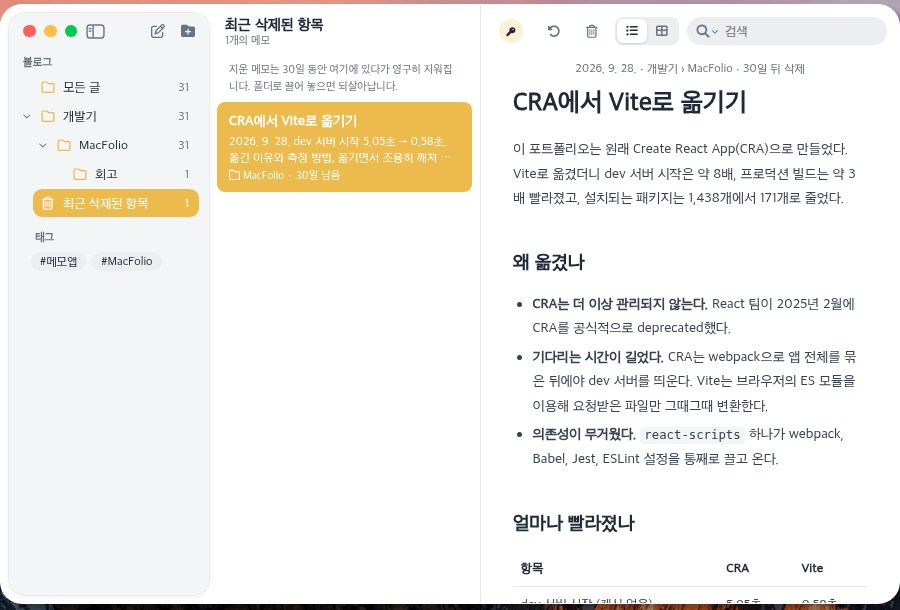
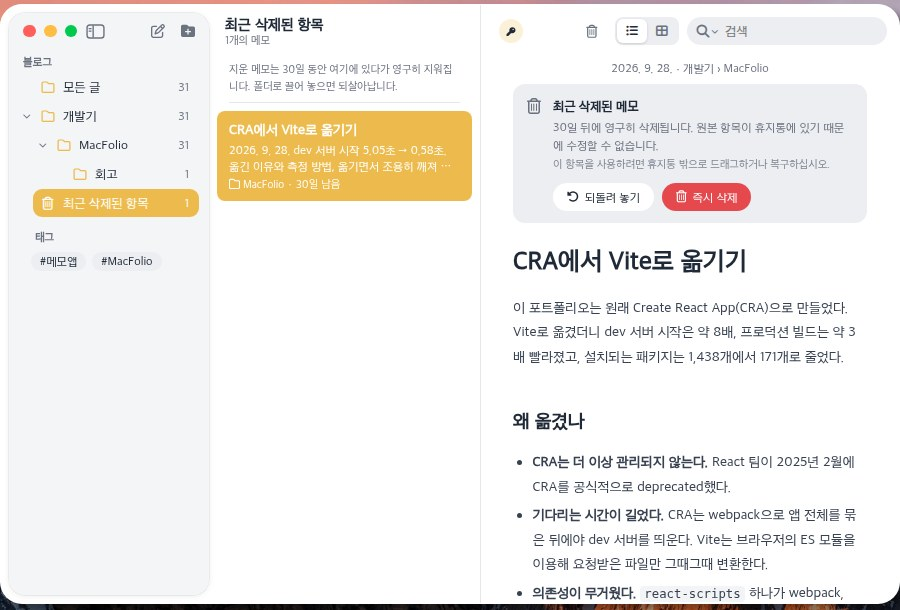
docs(memo): 최근 삭제된 항목 글에 안내 상자·휴지통 비우기 적기

diff --git a/apps/react/src/apps/memo/content/memo-recently-deleted.md b/apps/react/src/apps/memo/content/memo-recently-deleted.md
@@ -7,7 +7,7 @@ summary: 메모를 지우면 바로 사라지고 되돌릴 길이 없었다. mac
 
 메모를 지울 때마다 "지울까요?"라고 물었다. 묻는 이유는 되돌릴 수 없어서였다. macOS 메모는 묻지 않는다. 지운 메모는 '최근 삭제된 항목'으로 가서 30일 동안 남고, 그 안에서 되살리거나 영구히 지운다. 같은 방식으로 바꿨다.
 
-![최근 삭제된 항목](./images/memo-trash.jpg '폴더 목록 맨 아래의 최근 삭제된 항목. 줄마다 남은 날, 도구 막대에 되살리기')
+![최근 삭제된 항목](./images/memo-trash.jpg '폴더 목록 맨 아래의 최근 삭제된 항목. 본문 위 안내 상자에 되돌려 놓기·즉시 삭제')
 
 ## 지운 때
 
@@ -47,13 +47,31 @@ ALTER TABLE "Post" ADD CONSTRAINT "Post_deleted_at" CHECK ("deletedAt" IS NULL O
 
 ## 화면
 
-- 지우기는 묻지 않는다. 영구 삭제만 되돌릴 수 없어서 묻는다
-- 최근 삭제된 항목은 지운 글이 있을 때만 폴더 목록 맨 아래에 보인다. 날짜로 묶지 않고 최근에 지운 순서로 늘어놓으니 정렬 단추는 없다. 목록 위에 "30일 동안 여기에 있다가 영구히 지워진다, 폴더로 끌어 놓으면 되살아난다"는 안내를 한 번 적고, 줄마다 "N일 남음"을 단다
-- 지운 글은 관리자에게도 평소의 읽기 화면으로 보인다. 날짜 줄 끝에 "N일 뒤 삭제"만 붙고, 되살리기와 영구 삭제(휴지통)는 도구 막대에 있다. 우클릭·••• 메뉴에도 같은 두 가지가 있다
+- 지우기는 묻지 않는다. 즉시 삭제만 되돌릴 수 없어서 묻는다
+- 최근 삭제된 항목은 지운 글이 있을 때만 폴더 목록 맨 아래에 보인다. 날짜로 묶지 않고 최근에 지운 순서로 늘어놓으니 정렬 단추는 없다. 목록 위에 "30일 동안 여기에 있다가 영구히 지워진다, 폴더로 끌어 놓으면 되살아난다"는 안내를 한 번 적고 구분선을 긋는다. 줄마다 "N일 남음"을 단다
+- 지운 글은 관리자에게도 읽기 화면으로 보인다. 본문 위 안내 상자에 남은 날과 고칠 수 없는 까닭, 쓰는 방법을 적고, 그 아래 한 줄에 [되돌려 놓기]·[즉시 삭제]를 둔다. 도구 막대의 휴지통도 즉시 삭제다. 우클릭·••• 메뉴에도 같은 두 가지가 있다
+- 최근 삭제된 항목의 ••• 메뉴(우클릭도 같다)에 '휴지통 비우기'가 있다. 남은 메모를 모두 즉시 삭제한다
+- 되돌려 놓으면 '모든 글'로 돌아가 그 글을 연다. 마지막 하나를 즉시 삭제하면 최근 삭제된 항목이 사라지므로 역시 '모든 글'로 간다
 
-처음에는 본문 위에 회색 안내 상자("최근 삭제된 메모입니다… [되살리기]")를 두었다. 눈에는 잘 띄었지만 글을 읽을 때마다 상자가 먼저 보여서 시끄러웠다. macOS 메모처럼 본문은 그대로 두고, 할 수 있는 일은 도구 막대로, 남은 날은 날짜 줄로 옮겼다.
+안내 상자의 문구는 Finder의 휴지통에서 파일을 열 때 나오는 안내를 따랐다.
 
-- 되살리면 '모든 글'로 돌아가 그 글을 연다. 마지막 하나를 영구히 지우면 최근 삭제된 항목이 사라지므로 역시 '모든 글'로 간다
+> 30일 뒤에 영구히 삭제됩니다. 원본 항목이 휴지통에 있기 때문에 수정할 수 없습니다.
+> 이 항목을 사용하려면 휴지통 밖으로 드래그하거나 복구하십시오.
+
+한때는 상자를 없애고 날짜 줄과 도구 막대로만 알렸다. 조용하긴 했지만 왜 고칠 수 없는지, 어떻게 꺼내는지가 보이지 않았다. 그래서 상자를 되살리고, 휴지통 아이콘은 상자 한가운데가 아니라 첫 줄(제목)의 가운데에 맞췄다. 줄 높이를 변수 하나로 두고 아이콘과 제목에 같이 쓴다.
+
+```css
+.memo-trash-note {
+	--title-line: 20px;
+	display: flex;
+	align-items: flex-start;
+}
+
+.memo-trash-note > i,
+.memo-trash-note strong {
+	line-height: var(--title-line);
+}
+```
 
 내용은 지우기 직전 관리자가 보던 그대로 보여 준다(임시 저장 → 게시한 내용 → 저장소 파일 순). 그래서 지우기가 이제 임시 저장을 비우지 않는다. 고치던 글을 실수로 지웠다가 되살려도 고치던 내용이 남는다.
 
